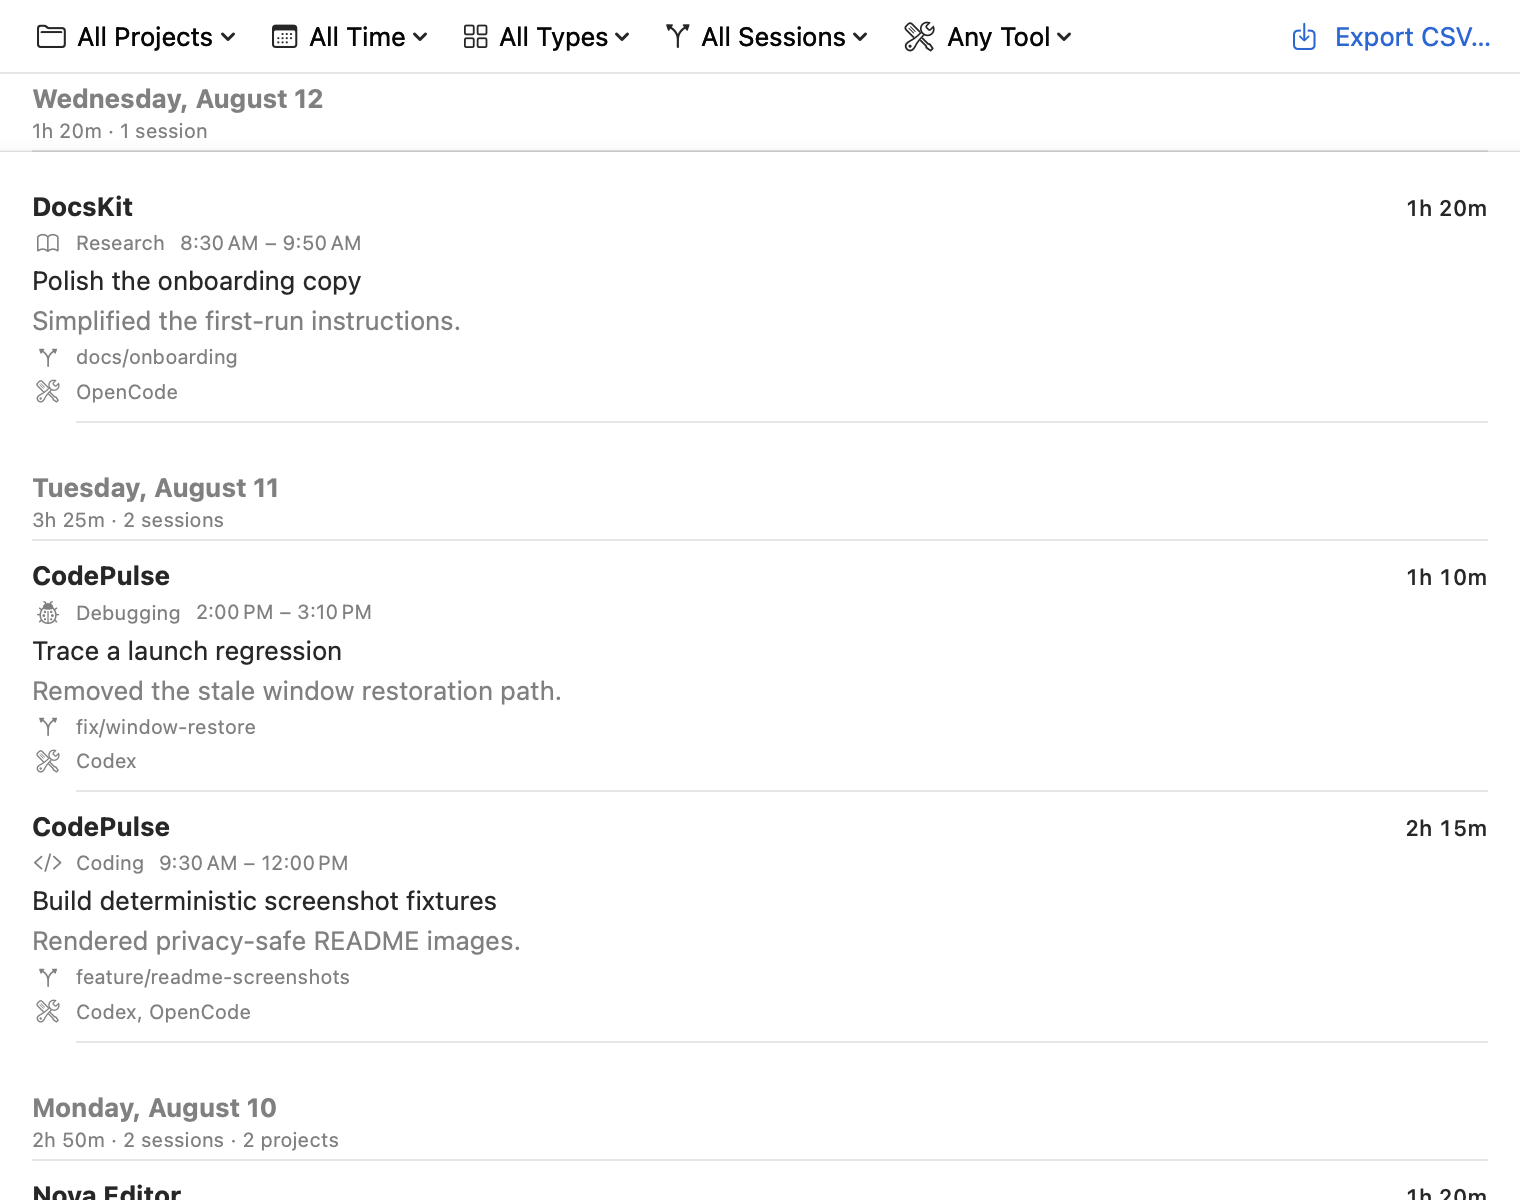
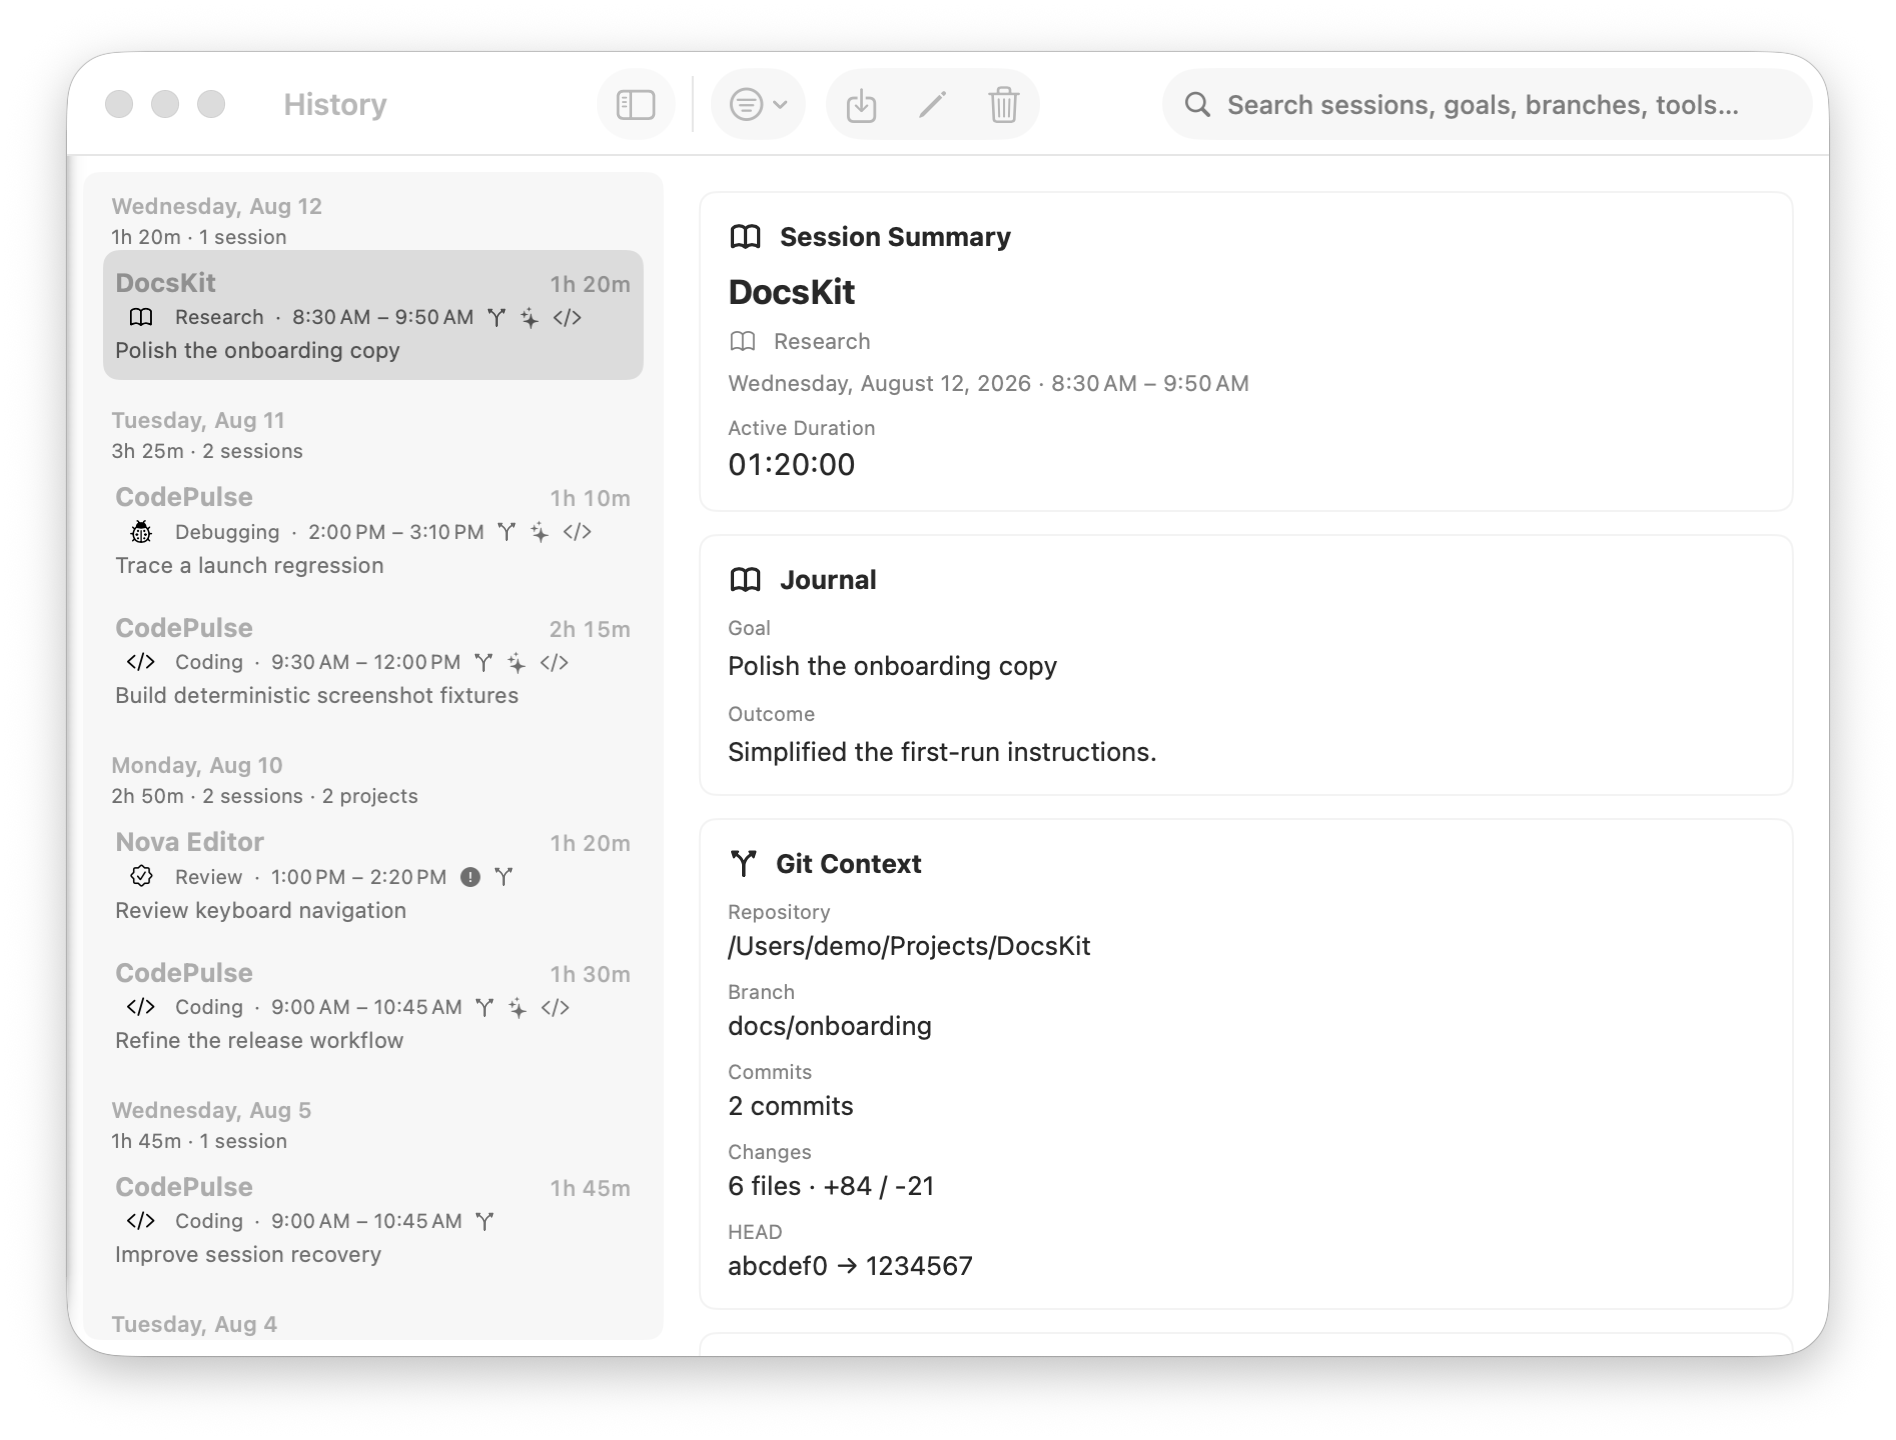
Refresh README History and Insights screenshots

diff --git a/Tests/CodePulseTests/ReadmeScreenshotTests.swift b/Tests/CodePulseTests/ReadmeScreenshotTests.swift
@@ -72,20 +72,23 @@ final class ReadmeScreenshotTests: XCTestCase {
             outputDirectory: outputDirectory
         )
 
+        let historyStore = fixture.makeStore()
         try render(
             HistoryView()
-                .environmentObject(fixture.makeStore()),
-            size: CGSize(width: 760, height: 600),
+                .environmentObject(historyStore),
+            size: CGSize(width: 880, height: 600),
             name: "history",
-            outputDirectory: outputDirectory
+            outputDirectory: outputDirectory,
+            includeWindowFrame: true
         )
 
         try render(
             InsightsView()
                 .environmentObject(fixture.makeStore()),
-            size: CGSize(width: 760, height: 1400),
+            size: CGSize(width: 1040, height: 1400),
             name: "insights",
-            outputDirectory: outputDirectory
+            outputDirectory: outputDirectory,
+            includeWindowFrame: true
         )
 
         for name in ["menu-bar-session", "history", "insights"] {
@@ -100,7 +103,8 @@ final class ReadmeScreenshotTests: XCTestCase {
         _ content: Content,
         size: CGSize,
         name: String,
-        outputDirectory: URL
+        outputDirectory: URL,
+        includeWindowFrame: Bool = false
     ) throws {
         let root = content
             .frame(width: size.width, height: size.height)
@@ -113,15 +117,25 @@ final class ReadmeScreenshotTests: XCTestCase {
         let hostingController = NSHostingController(rootView: root)
         let window = NSWindow(
             contentRect: NSRect(origin: .zero, size: size),
-            styleMask: [.borderless],
+            styleMask: [.titled, .closable, .resizable],
             backing: .buffered,
             defer: false
         )
+        window.title = name.capitalized
+        window.toolbarStyle = .unified
         window.contentViewController = hostingController
         window.setContentSize(size)
         window.isReleasedWhenClosed = false
-        window.setFrameOrigin(NSPoint(x: -10_000, y: -10_000))
+        window.setFrameOrigin(
+            includeWindowFrame
+                ? NSPoint(x: 100, y: 100)
+                : NSPoint(x: -10_000, y: -10_000)
+        )
         window.orderFrontRegardless()
+        if includeWindowFrame {
+            NSApp.activate(ignoringOtherApps: true)
+            window.makeKeyAndOrderFront(nil)
+        }
         defer {
             window.orderOut(nil)
             window.contentViewController = nil
@@ -130,6 +144,27 @@ final class ReadmeScreenshotTests: XCTestCase {
         RunLoop.main.run(until: Date(timeIntervalSinceNow: 0.15))
         hostingController.view.layoutSubtreeIfNeeded()
         hostingController.view.displayIfNeeded()
+
+        // History and Insights use native window-level split/toolbar chrome;
+        // capture the test window itself so those production surfaces remain
+        // visible in the README asset instead of rendering only its content.
+        if includeWindowFrame,
+           let windowImage = CGWindowListCreateImage(
+               .null,
+               .optionIncludingWindow,
+               CGWindowID(window.windowNumber),
+               [.bestResolution]
+           ) {
+            let bitmap = NSBitmapImageRep(cgImage: windowImage)
+            guard let png = bitmap.representation(using: .png, properties: [:]) else {
+                throw ScreenshotError.encodingFailed(name)
+            }
+            try png.write(
+                to: outputDirectory.appendingPathComponent("\(name).png"),
+                options: .atomic
+            )
+            return
+        }
 
         let bounds = hostingController.view.bounds
         guard let bitmap = hostingController.view.bitmapImageRepForCachingDisplay(in: bounds) else {
